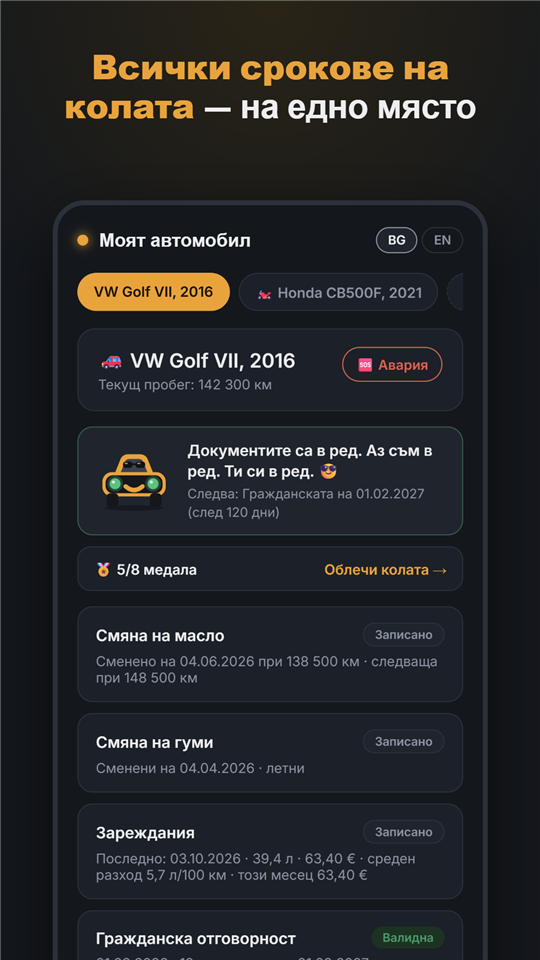
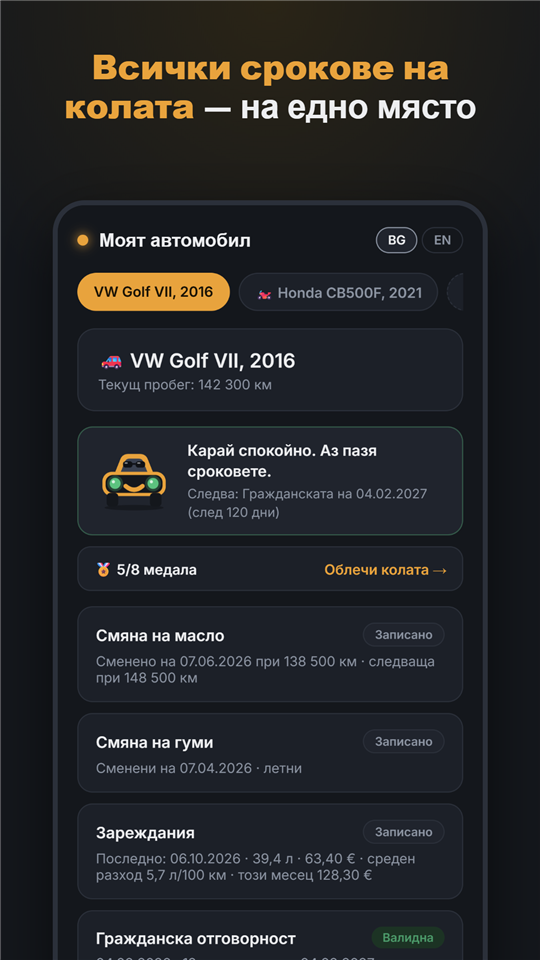
Remove the Breakdown button; refresh screenshots

diff --git a/index.html b/index.html
@@ -145,7 +145,7 @@ footer a{color:var(--muted);}
       <div class="card"><div class="ico">🚗</div><h3>Всички срокове на едно място</h3><p>Гражданска отговорност, винетка, годишен технически преглед, каско, смяна на масло и гуми.</p></div>
       <div class="card"><div class="ico">🔔</div><h3>Напомняния навреме</h3><p>Известие на телефона 7 дни и 1 ден преди изтичане — дори без интернет.</p></div>
       <div class="card"><div class="ico">⛽</div><h3>Разход на гориво</h3><p>Записваш зарежданията и виждаш средния разход и сметката за месеца.</p></div>
-      <div class="card"><div class="ico">🆘</div><h3>Бутон „Авария“</h3><p>Пътна помощ с едно натискане и точното ти местоположение. При пострадали — 112.</p></div>
+      <div class="card"><div class="ico">🏅</div><h3>Кола-талисман</h3><p>Усмихната кола, която се радва, когато всичко е наред. Медали, облекла и различни форми.</p></div>
       <div class="card"><div class="ico">🏍</div><h3>Коли и мотори</h3><p>До 10 превозни средства в едно приложение — за цялото семейство или малка фирма.</p></div>
       <div class="card"><div class="ico">🔒</div><h3>Данните остават при теб</h3><p>Всичко, което въвеждаш, стои само на твоя телефон. Няма акаунт и няма реклами.</p></div>
     </div>
@@ -153,7 +153,7 @@ footer a{color:var(--muted);}
       <div class="card"><div class="ico">🚗</div><h3>All deadlines in one place</h3><p>Third-party liability insurance, vignette, annual roadworthiness inspection, casco, oil and tyre changes.</p></div>
       <div class="card"><div class="ico">🔔</div><h3>Reminders in time</h3><p>A phone notification 7 days and 1 day before expiry — even offline.</p></div>
       <div class="card"><div class="ico">⛽</div><h3>Fuel consumption</h3><p>Log your refuels and see your average consumption and the month’s fuel bill.</p></div>
-      <div class="card"><div class="ico">🆘</div><h3>Breakdown button</h3><p>Road assistance in one tap, plus your exact location. Anyone injured — 112.</p></div>
+      <div class="card"><div class="ico">🏅</div><h3>Mascot car</h3><p>A smiling car that is happy when everything is in order. Medals, outfits and different shapes.</p></div>
       <div class="card"><div class="ico">🏍</div><h3>Cars and motorcycles</h3><p>Up to 10 vehicles in one app — for the whole family or a small business.</p></div>
       <div class="card"><div class="ico">🔒</div><h3>Your data stays with you</h3><p>Everything you enter stays on your phone only. No account and no ads.</p></div>
     </div>
@@ -170,12 +170,12 @@ footer a{color:var(--muted);}
     </div>
 
     <div class="price" lang="bg">
-      <span><b>Безплатно:</b> масло, гуми, зареждания и бутонът „Авария“</span>
+      <span><b>Безплатно:</b> масло, гуми и зареждания</span>
       <span><b>Премиум:</b> документите, напомнянията и до 10 коли — първият месец е безплатен, после 0,99 €/месец или 9,99 €/година</span>
       <span><b>Форми на колата:</b> седан, джип, спортно купе, ретро, такси и още — част са безплатни, част в премиум, останалите по 1,19 € (всички за 5,99 €) и остават твои завинаги</span>
     </div>
     <div class="price" lang="en">
-      <span><b>Free:</b> oil, tyres, refuels and the Breakdown button</span>
+      <span><b>Free:</b> oil, tyres and refuels</span>
       <span><b>Premium:</b> documents, reminders and up to 10 vehicles — first month free, then €0.99/month or €9.99/year</span>
       <span><b>Car shapes:</b> sedan, SUV, sports coupé, retro, taxi and more — some free, some in premium, the rest €1.19 each (all for €5.99), yours forever</span>
     </div>
